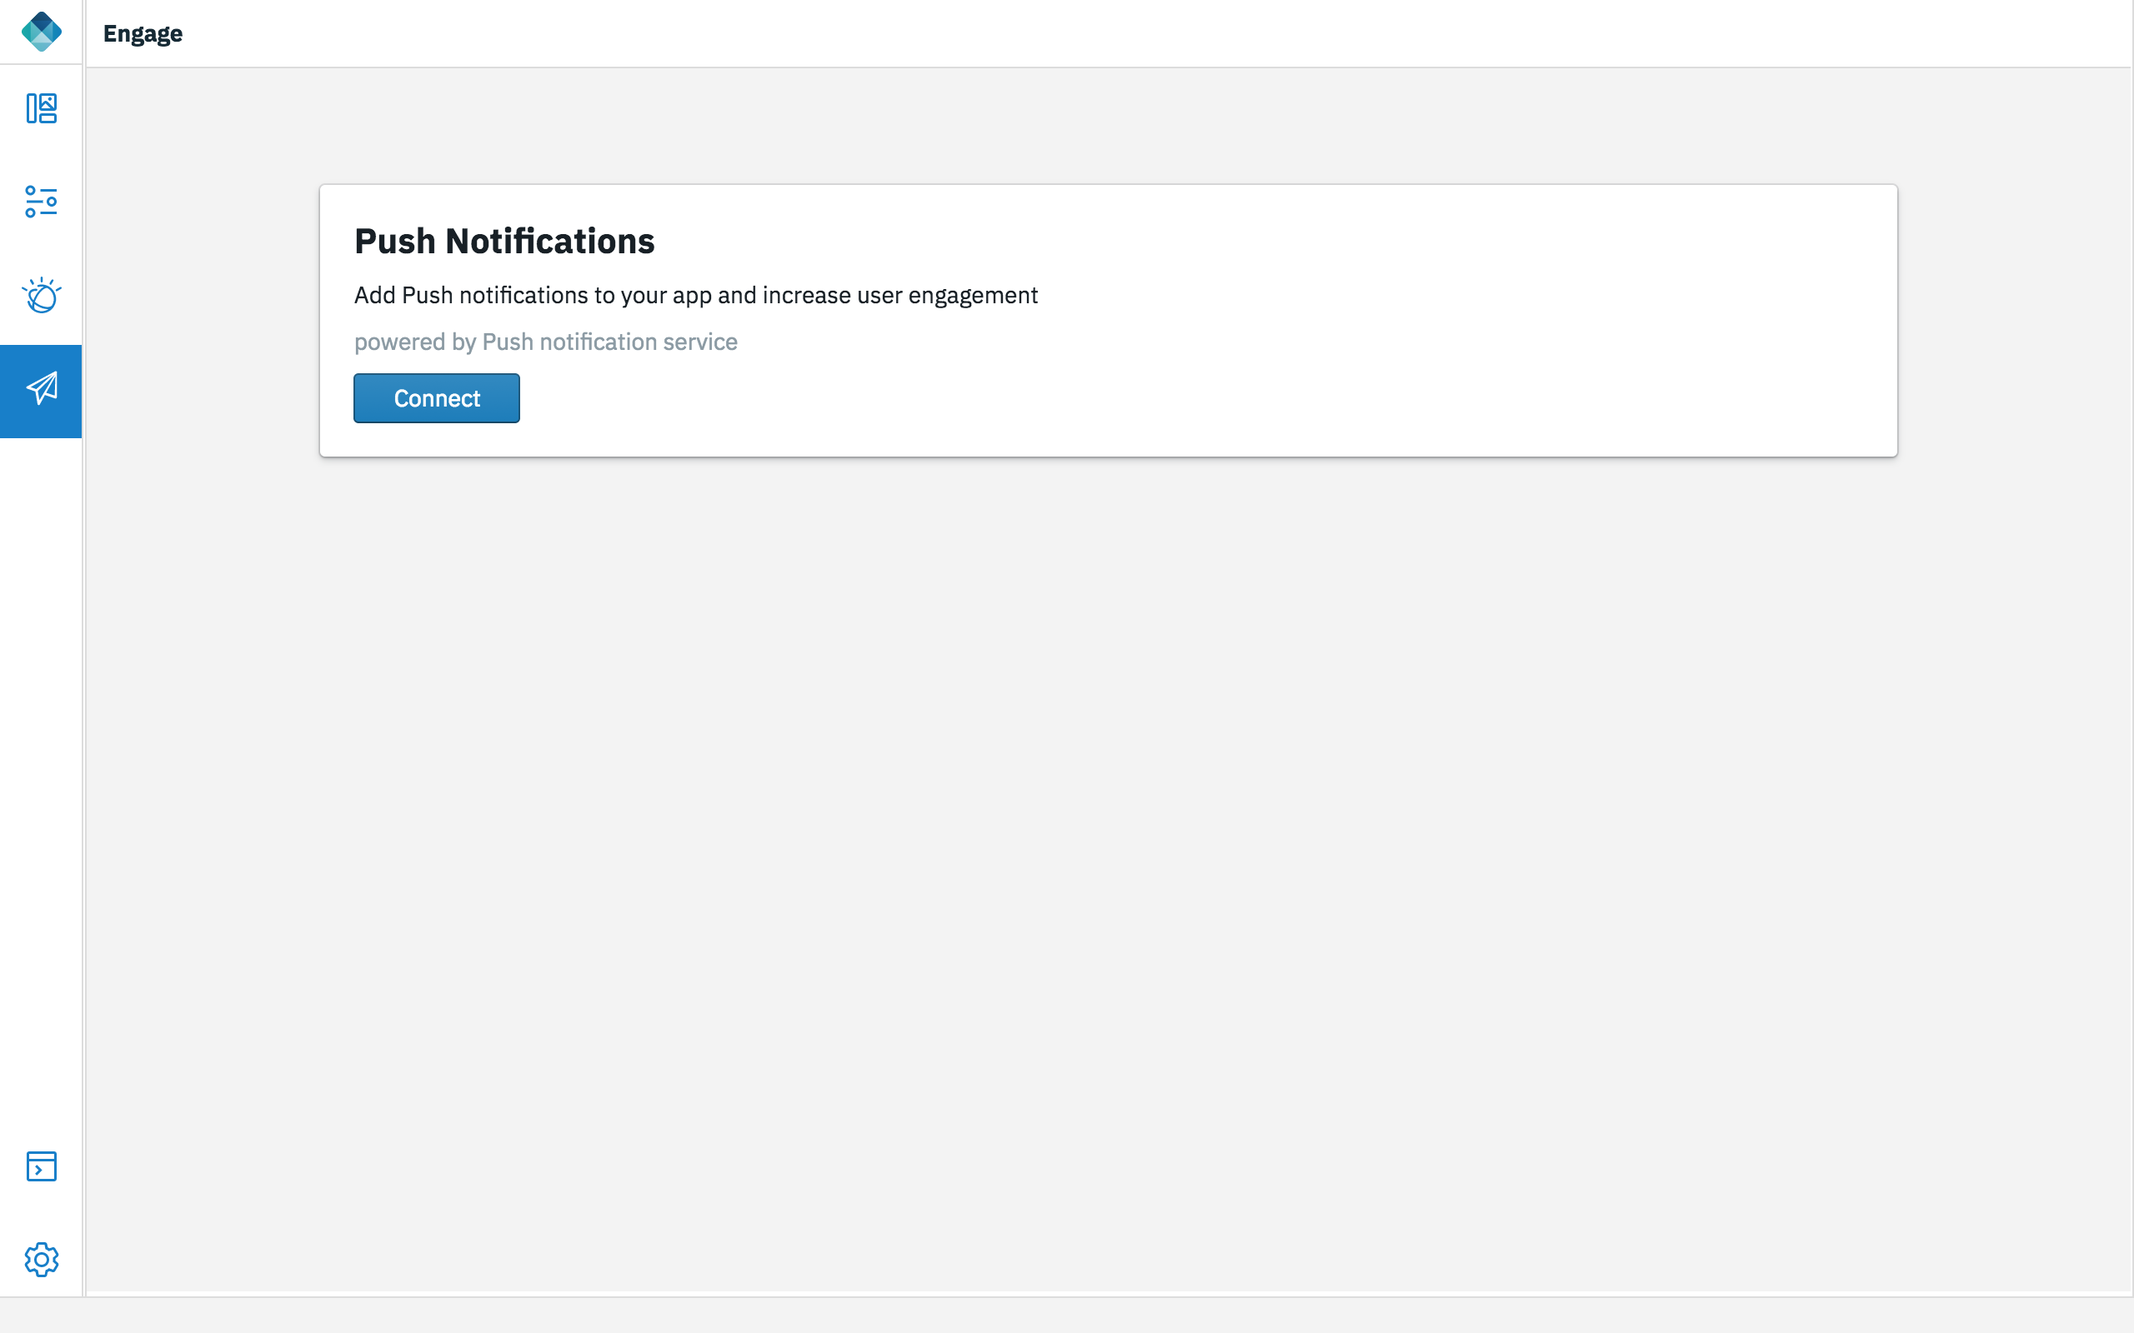
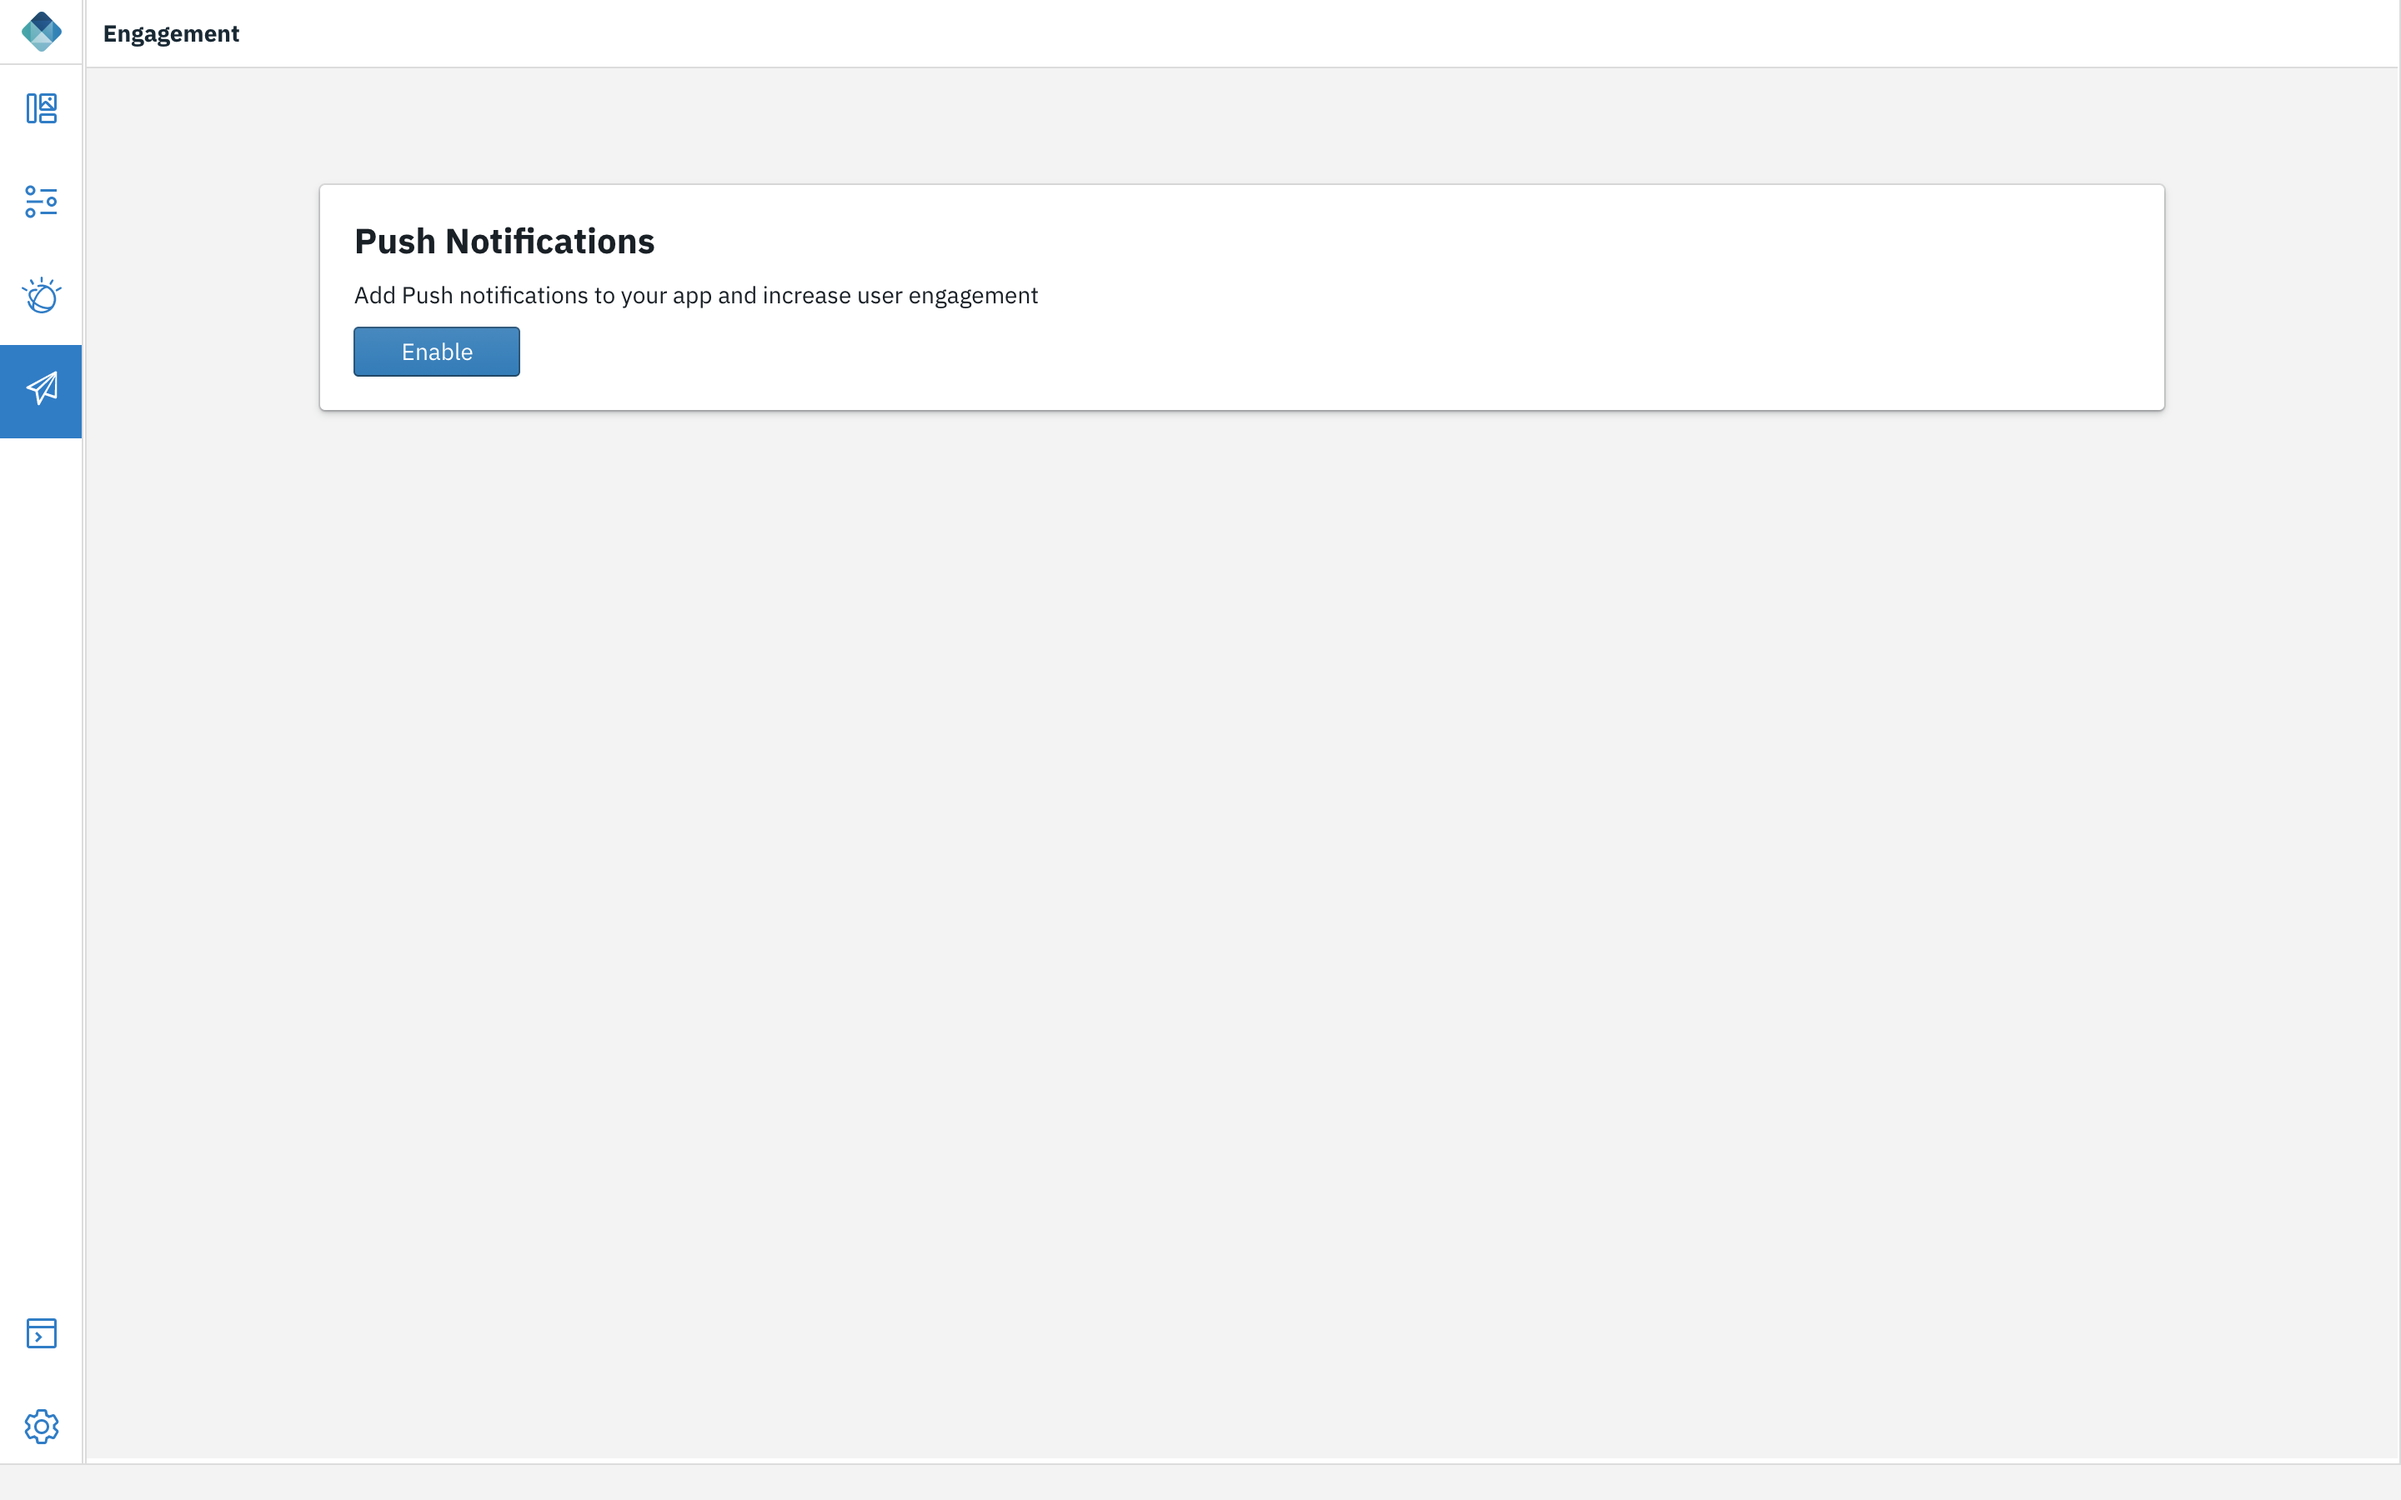
content update

diff --git a/tutorials/en/foundation/8.0/digital-app-builder/installation/index.md b/tutorials/en/foundation/8.0/digital-app-builder/installation/index.md
@@ -8,75 +8,78 @@ show_children: true
 ## Overview
 {: #installation-and-configuration }
 
-You can install the Digital App Builder on MacOS and Windows platform.
+You can now install the Digital App Builder on MacOS and Windows platform. The installation also includes prerequisites software installed during the first time installation and verified. You can install Java, Xcode, and Android Studio for adapter generation and previewing the app during development.
 
 ### Installing on MacOS
 {: #installing-on-macos }
 
-1. Install **Node.js** and **npm** by downloading the setup from [https://nodejs.org/en/download](https://nodejs.org/en/download) (Node.js 8.x or above). For more information on installation instructions, refer [here](https://nodejs.org/en/download/package-manager/). Check the node and npm version as shown below: 
-    ```java
-    $node -v
-    v8.10.0
-    $npm -v
-    6.4.1
-    ```
-2. Install **Cordova**. You can download and install the package from [Cordova](https://cordova.apache.org/docs/en/latest/guide/cli/index.html).
-    ```java
-    $ npm install -g cordova
-    $ cordova –version
-    7.0.1
-    ```
+1. Download the .dmg (**IBM.Digital.App.Builder-8.0.2.dmg**) from [IBM passport advantage](https://www.ibm.com/software/passportadvantage/) or from [here](https://github.com/MobileFirst-Platform-Developer-Center/Digital-App-Builder/releases).
+2. Double click on .dmg file to mount the installer.
+3. In the window that the installer opens, drag and drop the IBM Digital App Builder to the **Applications** folder.
+4. Double click the IBM Digital App Builder icon or executable to open the Digital App Builder.
+    >**Note**: When the Digital App Builder is installed for the first time, the Digital App Builder opens up the interface to install the prerequisite software.
+    
+    ![Installing Digital App Builder](dab-install-startup.png)
 
-    >**Note**: If you are facing any permission issues in running `$ npm install -g cordova` command, install using elevated previleges (`$ sudo npm install -g cordova`).
+5. Click **Start setup**. This displays the license agreement screen.
 
-3. Install **ionic**. You can download and install the package from [ionic](https://ionicframework.com/docs/cli/).
-    ```java
-    $ npm install -g ionic
-    $ ionic –version
-    4.2.0
-    ```
+    ![License Agreement screen](dab-install-license.png)
 
-    >**Note**: If you are facing any permission issues in running `$ npm install -g ionic` command, install using elevated previleges (`$ sudo npm install -g ionic`).
+6. Accept the license agreement and click **Next**. This displays the **Install Pre-requisites** screen.
+    >**Note**: A check is done to find if any of the prerequisites software is already installed and the status is displayed against each of them.
 
-4. Download the .dmg (**IBM.Digital.App.Builder-8.0.0.dmg**) from [IBM passport advantage](https://www.ibm.com/software/passportadvantage/) or from [here](https://github.com/MobileFirst-Platform-Developer-Center/Digital-App-Builder/releases).
-5. Double click on .dmg file to mount the installer.
-6. In the window that the installer opens, drag and drop the IBM Digital App Builder to the **Applications** folder.
-7. Double click the IBM Digital App Builder icon or executable to open the Digital App Builder.
->**Note**: When the Digital App Builder is installed for the first time, the Digital App Builder opens up the interface and performs a [Prerequisites Check](#prerequisites-check). In case of any error, rectify the error and restart the Digital App Builder before creating an app.
+    ![Install Pre-requisites screen](dab-install-prereq.png)
+
+7. Click **Install** to setup the prerequisite software, if any of the prerequisites are in **To be installed** status.
+
+    ![Install Pre-requisites screen](dab-install-prereq-tobeinstalled.png)
+
+8. After installing the prerequisite software, the Digital App Builder startup screen is displayed. Click **Start building**.
+
+    ![Digital App Builder startup](dab-install-startup-screen.png)
+
+9. *Optional* - After installing the prerequisite software, the installer checks for JAVA as the Digital App Builder needs JAVA to work with your datasets. 
+    >**Note**: You need to manually install JAVA, if not already installed. For installing Java, refer to [Installing Java](https://www.java.com/en/download/help/download_options.xml).
+10. *Optional* - The installer also checks for optional installation of Xcode (for previewing your app on iOS simulator during development, for MacOS only) and Android Studio (for previewing your Android app, for MacOS and Windows).
+    >**Note**: You need to manually install Xcode and Android Studio. For Cocoapods installation, refer to [Using CocoaPods](https://guides.cocoapods.org/using/using-cocoapods). For Android Studio installation, refer to [Installing Android Studio](https://developer.android.com/studio/). 
+
+>**Note**: At any given point of time you can perform a [Prerequisites Check](#prerequisites-check) to verify the installation is fine to develop your app. In case of any error, rectify the error and restart the Digital App Builder before creating an app.
 
 ### Installing on Windows
 {: #installing-on-windows }
 
 Run the following commands from the command prompt opened in administrative mode:
 
-1. Install **Node.js** and **npm** by downloading the setup from [https://nodejs.org/en/download](https://nodejs.org/en/download) (Node.js 8.x or above). For more information on installation instructions, refer [here](https://nodejs.org/en/download/package-manager/). Check the node and npm version as shown below: 
+1. Download the .exe (**IBM.Digital.App.Builder.Setup.8.0.2.exe**) from [IBM passport advantage](https://www.ibm.com/software/passportadvantage/) or from [here](https://github.com/MobileFirst-Platform-Developer-Center/Digital-App-Builder/releases).
+2. Double click the Digital App Builder executable to install.
 
-    ```java
-    C:\>node -v
-    v8.10.0
-    C:\>npm -v
-    6.4.1
-    ```
+    ![Installing Digital App Builder](dab-install-startup.png)
 
-2. Install **Cordova**. You can download and install the package from [Cordova](https://cordova.apache.org/docs/en/latest/guide/cli/index.html).
+3. Click **Start setup**. This displays the license agreement screen.
 
-    ```java
-    C:\>npm install -g cordova
-    C:\>cordova –v
-    7.0.1
-    ```
+    ![License Agreement screen](dab-install-license.png)
 
-3. Install **ionic**. You can download and install the package from [ionic](https://ionicframework.com/docs/cli/).
+4. Accept the license agreement and click **Next**. This displays the **Install Pre-requisites** screen.
+    >**Note**: A check is done to find if any of the prerequisites software is already installed and the status is displayed against each of them.
 
-    ```java
-    C:\>npm install -g ionic
-    C:\> ionic –version
-    4.2.0
-    ``` 
+    ![Install Pre-requisites screen](dab-install-prereq.png)
 
-4. Download the .exe (**IBM.Digital.App.Builder.Setup.8.0.0.exe**) from [IBM passport advantage](https://www.ibm.com/software/passportadvantage/) or from [here](https://github.com/MobileFirst-Platform-Developer-Center/Digital-App-Builder/releases).
-5. Double click the Digital App Builder executable to install. A short cut is also created in the **Start > Programs** in the desktop. The default installation folder is `<AppData>\Local\IBMDigitalAppBuilder\app-8.0.0`.
->**Note**: When the Digital App Builder is installed for the first time, the Digital App Builder opens up the interface and performs a [Prerequisites Check](#prerequisites-check). In case of any error, rectify the error and restart the Digital App Builder before creating an app.
+5. Click **Install** to setup the prerequisite software, if any of the prerequisites are in **To be installed** status.
+
+    ![Install Pre-requisites screen](dab-install-prereq-tobeinstalled.png)
+
+6. After installing the prerequisite software, the Digital App Builder startup screen is displayed. Click **Start building**.
+
+    ![Digital App Builder startup](dab-install-startup-screen.png)
+
+    >**Note**: A short cut is also created in the **Start > Programs** in the desktop. The default installation folder is `<AppData>\Local\IBMDigitalAppBuilder\app-8.0.2`.
+
+7. *Optional* - After installing the prerequisite software, the installer checks for JAVA as the Digital App Builder needs JAVA to work with your datasets. 
+    >**Note**: You need to manually install JAVA, if not already installed. For installing Java, refer to [Installing Java](https://www.java.com/en/download/help/download_options.xml).
+8. *Optional* - The installer also checks for optional installation of Xcode (for previewing your app on iOS simulator during development, for MacOS only) and Android Studio (for previewing your Android app, for MacOS and Windows).
+    >**Note**: You need to manually install Xcode and Android Studio. For Cocoapods installation, refer to [Using CocoaPods](https://guides.cocoapods.org/using/using-cocoapods). For Android Studio installation, refer to [Installing Android Studio](https://developer.android.com/studio/). 
+
+>**Note**: At any given point of time you can perform a [Prerequisites Check](#prerequisites-check) to verify the installation is fine to develop your app. In case of any error, rectify the error and restart the Digital App Builder before creating an app.
 
 ### Prerequisites Check
 {: #prerequisites-check }

diff --git a/tutorials/en/foundation/8.0/digital-app-builder/dab-interface/index.md b/tutorials/en/foundation/8.0/digital-app-builder/dab-interface/index.md
@@ -34,8 +34,6 @@ Workbench helps you to design the pages. Workbench consists of three work areas:
 
         ![Pages / Congrols](dab-workbench-basic-controls.png)
 
-        You can now modify styling for some of the basic controls like Button, Heading Text, etc. The styling that you can modify include: Color (background, foreground), Font weight, and Alignment (Left, Center, Right).
-
         * **Button** - Buttons has a property to label. In the Action tab you can specify the page to navigate to on click of the Button.
         * **Heading Text** - Helps you to add a heading text for the application such as Page Title.
         * **Image** - Helps you upload a local image or provide a url of an image.
@@ -235,23 +233,19 @@ To add Push notifications to your app:
 
     ![Engagement Push](dab-engagement-push.png)
 
-2. In the **Push Notifications** click **Connect**. This displays the **Connect to Push Notification instance** dialog.
+2. In **Push Notifications**, click **Enable**. This displays the **Push Notification instance** configuration dialog.
 
-    ![Engagement Push Notifications instance](dab-engagement-push-instance.png)
+3. Configure push notification for Android by providing **API Secret Key** and **Sender ID** and click **Save configuration**.
 
-3. Enter **Name**, **API Key**, **App GUID**, **Client Secret Key**, select the **Region** and click **Connect**.
-4. The Name entered above get added to the page under Engagement.
-5. Configure push notification for Android by providing **API Secret Key** and **Sender ID** and click **Save configuration**.
+    ![Engagement Push Notification Android configuration](dab-engagement-push-instance.png)
 
-    ![Engagement Push Notification Android configuration](dab-engagement-push-android-configure.png)
-
-6. Navigate to the iOS tab and provide push configuration details: select the **Environment**, provide the .p12 file with path, and enter the **Password** and click **Save configuration**.
+4. Navigate to the iOS tab and provide push configuration details: select the **Environment**, provide the .p12 file with path, and enter the **Password** and click **Save configuration**.
 
     ![Engagement Push Notification iOS configuration](dab-engagement-push-ios-configure.png)
 
-7.  
-    a. For Android, copy `google-services.json` (download from your firebase project) to `<path_to_app>/ionic/platforms/android/app` folder.
-    b. For iOS, open the xcode project `<path_to_app>/ionic/platforms/ios/<app>.xcodeproj` and enable push notification capability. For more details, refer to [https://help.apple.com/xcode/mac/current/#/devdfd3d04a1](https://help.apple.com/xcode/mac/current/#/devdfd3d04a1).
+5. Perform the following steps:
+    a. For Android app, copy `google-services.json` (download from your firebase project) to `<path_to_app>/ionic/platforms/android/app` folder.
+    b. For iOS app, open the xcode project `<path_to_app>/ionic/platforms/ios/<app>.xcodeproj` and enable push notification capability. For more details, refer to [https://help.apple.com/xcode/mac/current/#/devdfd3d04a1](https://help.apple.com/xcode/mac/current/#/devdfd3d04a1).
 
 
 ### Console
